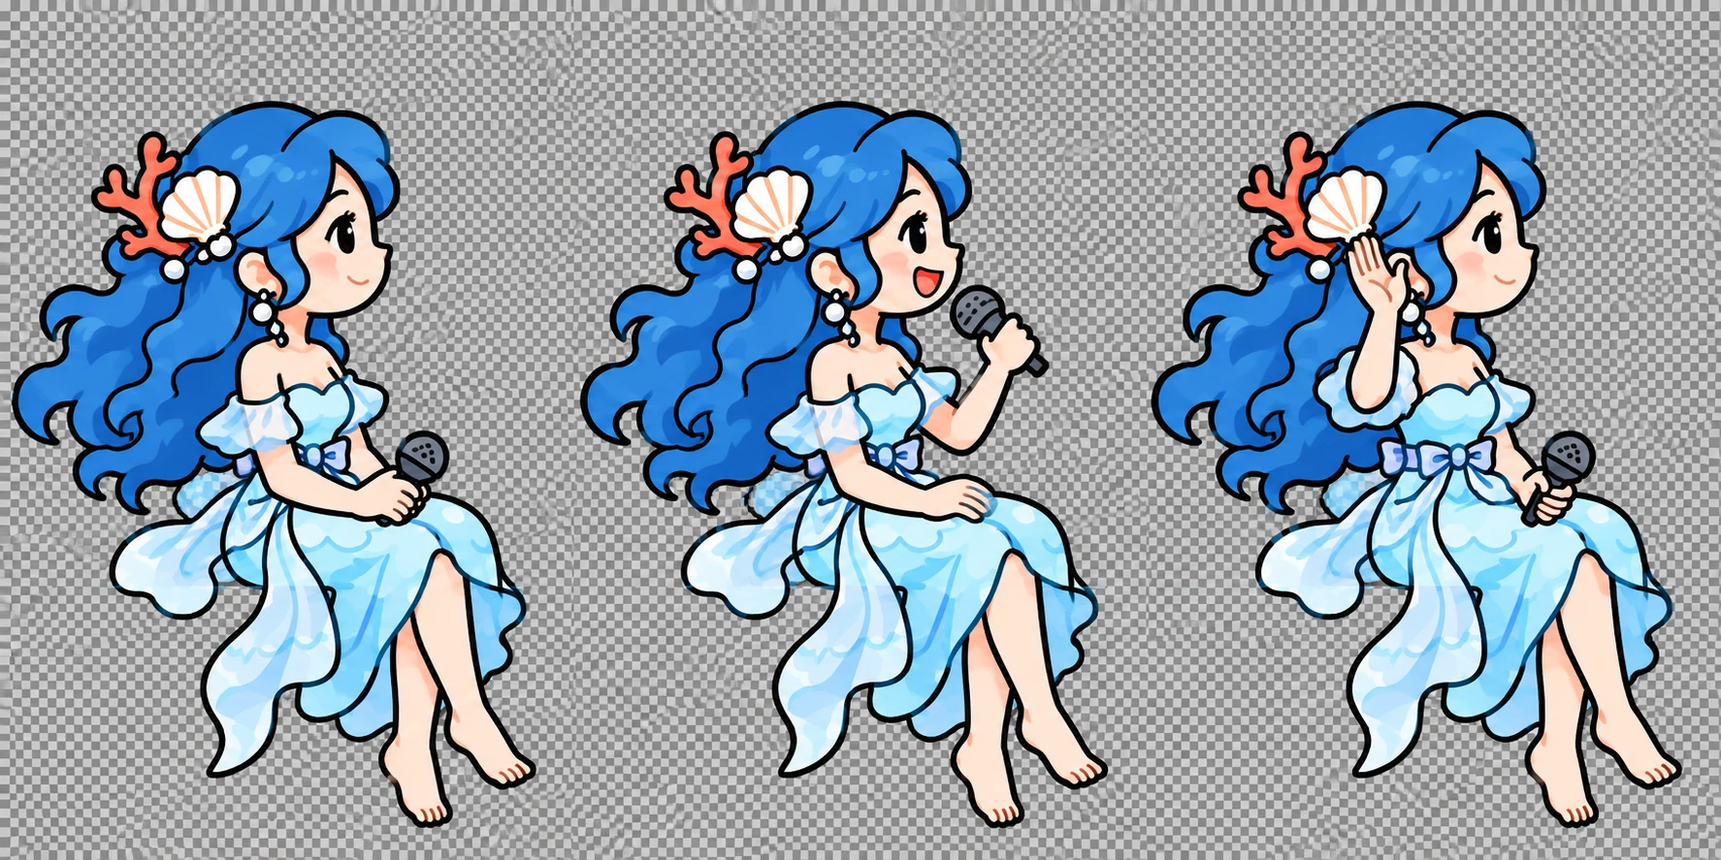
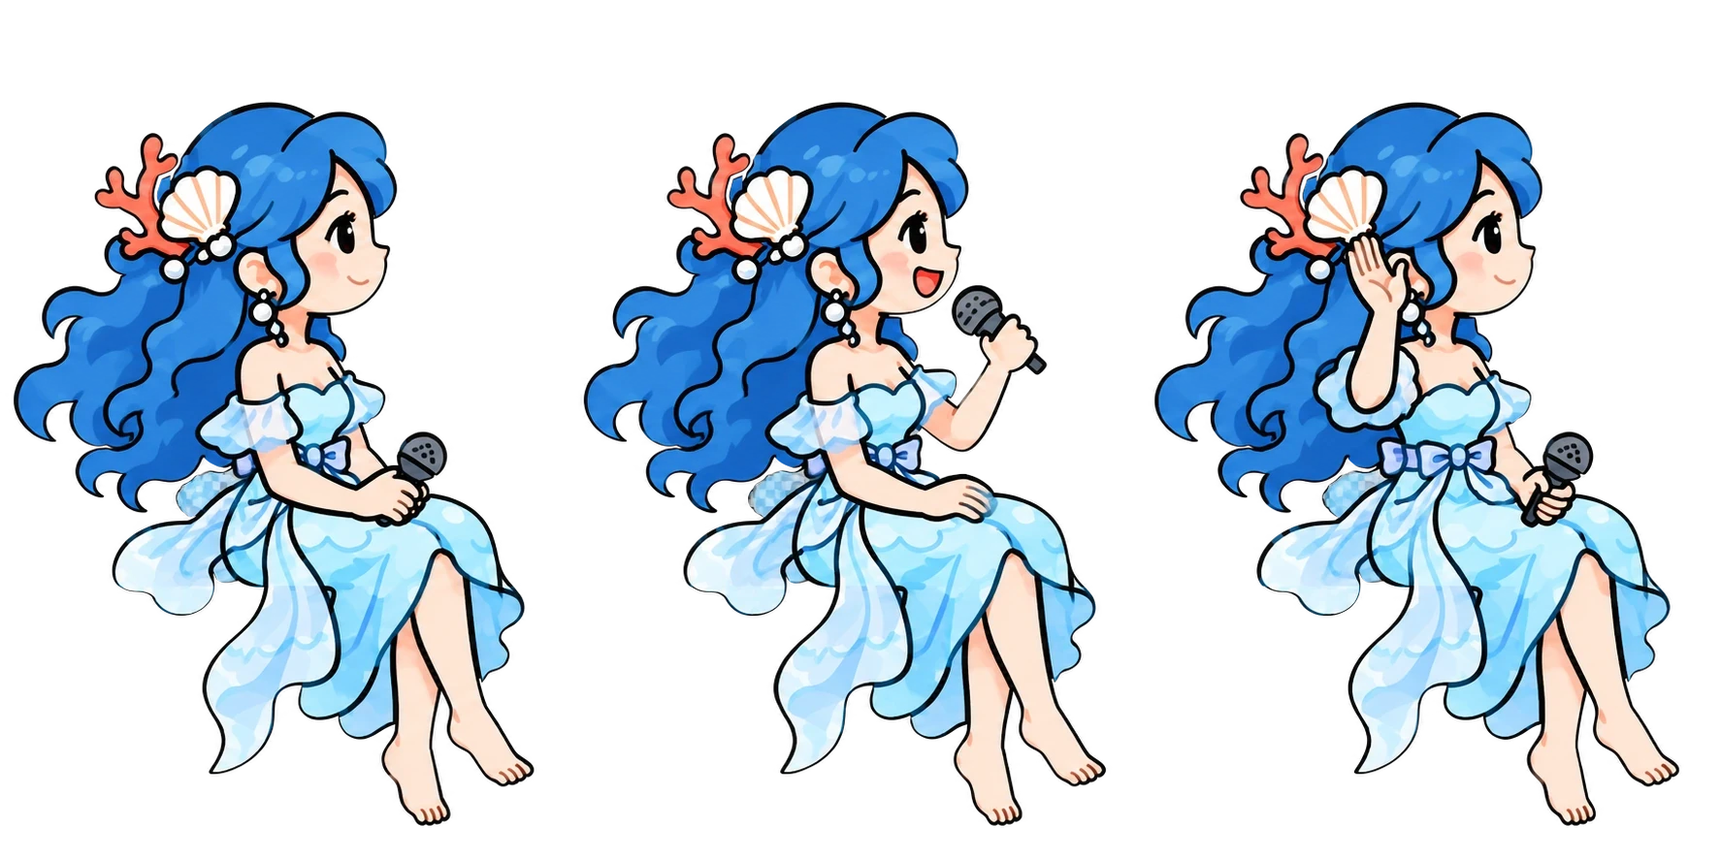
fix(visual): 把亮度遮罩烤进 alpha，分享卡字号改用实测卡宽
iPad Safari 上实测两个视觉缺陷，都是 CSS 特性在旧版 WebKit 上的回退行为。

## 棋盘格露出

海妖用 `-webkit-mask-image` + `mask-image` + `mask-mode: luminance` 做抠图。
旧版 WebKit 不支持 `mask-mode`，把 `-webkit-mask-image` 当 alpha 遮罩读，
而遮罩是全不透明的黑白图，alpha 处处 255，等于完全没遮——生成模型烤进去的
棋盘格背景直接显示出来。docs/assets-generation.md 当初就警告过这一条
（"Do not use the opaque mask as an alpha mask without luminance interpretation"）。

改为用 art-source/bake-alpha.py 在构建前把遮罩亮度写进图集的 alpha 通道，
CSS 里不再有任何遮罩。没有遮罩语义，也就没有各引擎解释不一致的问题。

透明区域近处保留外扩的精灵颜色、远处铺白，缩放采样不会把棋盘格灰拖进描边，
同时让远场压缩到接近于零：

  siren-atlas + siren-mask   802.9KB -> 410.6KB
  boats-atlas + boats-mask   548.5KB -> 206.5KB
  整包                        1991KB -> 1257KB

`compileSprites()` 相应简化为按列切分加 alpha 裁边，不再每次启动在主线程上
合成 591×887×3 ≈ 157 万像素。

顺带修掉两处同类隐患：`.water-shimmer` 的渐变遮罩缺 `-webkit-` 前缀，
在 Safari 上不生效；姿态切换里残留的 `mask-position` 已无对应遮罩，删除。

## 分享卡文字撑爆

分享卡的字号、间距全部裸用 `cqw`（`.share-count strong` 是 `27cqw`），
没有 clamp 兜底。容器查询一旦不生效，`cqw` 退回按视口计算，
`27cqw` 就变成屏幕宽度的 27%，整张卡的排版垮掉。
游戏主画面没炸只是因为那边写的是 `clamp(px, cqw, px)`。

改为由脚本实测卡片宽度写入 `--card-w`，样式用 `calc(var(--card-w) * 比例)`。
比例不变，但在任何引擎上都成立；卡片自身的宽度规则若将来也回退，
字号会跟着实测值走，不会二次失控。

WebKit 实测：卡宽 390px，大字 105.3px，正好是卡宽的 27%。

验证：selfcheck、176 项离线测试、tools/test-ui.py 两条路线全绿；
WebKit 与 Chromium 下人工比对首页与分享卡截图。

diff --git a/game/style.css b/game/style.css
@@ -63,6 +63,7 @@ button:focus-visible { outline: 3px solid #183f65; outline-offset: 5px; }
   opacity: .08;
   pointer-events: none;
   background: repeating-linear-gradient(174deg, transparent 0 63px, #fff 65px 66px, transparent 69px 130px);
+  -webkit-mask-image: linear-gradient(transparent, #000, transparent);
   mask-image: linear-gradient(transparent, #000, transparent);
   animation: water-drift 8s ease-in-out infinite;
 }
@@ -77,25 +78,21 @@ button:focus-visible { outline: 3px solid #183f65; outline-offset: 5px; }
   pointer-events: none;
   transition: transform .8s ease, opacity .5s ease;
 }
+/* The atlas carries its own alpha (art-source/bake-alpha.py). It used to be paired with a
+   separate luminance mask, but older WebKit ignores mask-mode and reads -webkit-mask-image as
+   an alpha mask; the mask was opaque everywhere, so nothing was masked and the generator's
+   checkerboard showed through on iPad Safari. No CSS mask here means no mask semantics to get
+   wrong. */
 .siren-art, .share-siren {
   background-image: url("./assets/characters/siren-atlas.webp");
   background-repeat: no-repeat;
   background-size: 300% 100%;
   background-position: 0 0;
-  -webkit-mask-image: url("./assets/characters/siren-mask.webp");
-  mask-image: url("./assets/characters/siren-mask.webp");
-  mask-mode: luminance;
-  -webkit-mask-size: 300% 100%;
-  mask-size: 300% 100%;
-  -webkit-mask-repeat: no-repeat;
-  mask-repeat: no-repeat;
-  -webkit-mask-position: 0 0;
-  mask-position: 0 0;
 }
 .siren-art { width: 100%; height: 100%; transform-origin: 50% 70%; animation: siren-breathe 3.2s ease-in-out infinite; }
-.siren[data-pose="sing"] .siren-art { background-position: 50% 0; -webkit-mask-position: 50% 0; mask-position: 50% 0; }
-.siren[data-pose="listen"] .siren-art { background-position: 100% 0; -webkit-mask-position: 100% 0; mask-position: 100% 0; }
-.siren.is-submerged { transform: translateY(30%); opacity: .48; mask-image: linear-gradient(#000 0 45%, transparent 66%); }
+.siren[data-pose="sing"] .siren-art { background-position: 50% 0; }
+.siren[data-pose="listen"] .siren-art { background-position: 100% 0; }
+.siren.is-submerged { transform: translateY(30%); opacity: .48; -webkit-mask-image: linear-gradient(#000 0 45%, transparent 66%); mask-image: linear-gradient(#000 0 45%, transparent 66%); }
 .siren-glow {
   position: absolute;
   left: 32%; top: 62%; width: 60%; height: 24%;
@@ -301,18 +298,18 @@ button:focus-visible { outline: 3px solid #183f65; outline-offset: 5px; }
 #app[data-phase="BOOT"] .home-view { visibility: hidden; }
 
 .share-view { position: absolute; inset: 0; z-index: 30; display: flex; flex-direction: column; align-items: center; justify-content: center; gap: 7px; overflow: hidden; padding: 16px; padding-top: max(16px, env(safe-area-inset-top, 0px)); padding-bottom: max(8px, env(safe-area-inset-bottom, 0px)); background: #f5f1e6; }
-.share-card { position: relative; isolation: isolate; container-type: inline-size; width: min(390px, calc((100dvh - 85px) * .6), calc(100vw - 32px)); aspect-ratio: 3 / 5; overflow: hidden; border: 3px solid var(--ink); border-radius: 24px; background: #c8effb; box-shadow: 5px 6px 0 #ccdcd9; text-align: center; }
+.share-card { --card-w: 390px; position: relative; isolation: isolate; container-type: inline-size; width: min(390px, calc((100dvh - 85px) * .6), calc(100vw - 32px)); aspect-ratio: 3 / 5; overflow: hidden; border: 3px solid var(--ink); border-radius: 24px; background: #c8effb; box-shadow: 5px 6px 0 #ccdcd9; text-align: center; }
 .share-sky { position: absolute; inset: 0; z-index: -1; background: #87dafd url("./assets/scenery/sea.webp") 14% bottom / auto 100% no-repeat; }
-.share-brand { margin: 7cqw 0 7cqw; font-size: 5.4cqw; font-weight: 700; letter-spacing: .055em; }
-.share-prefix { margin: 0; font-size: 5.4cqw; font-weight: 600; }
-.share-count { display: flex; justify-content: center; align-items: baseline; gap: 2cqw; margin: 0; font-weight: 700; line-height: 1.15; }
-.share-count strong { font-size: 27cqw; text-shadow: .65cqw .9cqw var(--cream); }
-.share-count span { font-size: 6.5cqw; }
-.share-line { position: relative; z-index: 3; margin: 3.5cqw 7cqw 0; font-size: 4.7cqw; font-weight: 600; line-height: 1.6; }
+.share-brand { margin: calc(var(--card-w) * 0.07) 0 calc(var(--card-w) * 0.07); font-size: calc(var(--card-w) * 0.054); font-weight: 700; letter-spacing: .055em; }
+.share-prefix { margin: 0; font-size: calc(var(--card-w) * 0.054); font-weight: 600; }
+.share-count { display: flex; justify-content: center; align-items: baseline; gap: calc(var(--card-w) * 0.02); margin: 0; font-weight: 700; line-height: 1.15; }
+.share-count strong { font-size: calc(var(--card-w) * 0.27); text-shadow: calc(var(--card-w) * 0.0065) calc(var(--card-w) * 0.009) var(--cream); }
+.share-count span { font-size: calc(var(--card-w) * 0.065); }
+.share-line { position: relative; z-index: 3; margin: calc(var(--card-w) * 0.035) calc(var(--card-w) * 0.07) 0; font-size: calc(var(--card-w) * 0.047); font-weight: 600; line-height: 1.6; }
 .share-sea { position: absolute; left: 0; right: 0; top: 46%; bottom: 0; background: transparent; }
 .share-sea canvas { position: absolute; inset: 0; width: 100%; height: 100%; }
-.share-siren { position: absolute; left: 4%; bottom: 8%; width: 58%; aspect-ratio: 2 / 3; background-position: 50% 0; -webkit-mask-position: 50% 0; mask-position: 50% 0; }
-.share-bottom { position: absolute; bottom: 3.5cqw; z-index: 4; width: 100%; margin: 0; padding: 2.5cqw 0; background: #fffaf0ed; font-size: 4cqw; font-weight: 600; }
+.share-siren { position: absolute; left: 4%; bottom: 8%; width: 58%; aspect-ratio: 2 / 3; background-position: 50% 0; }
+.share-bottom { position: absolute; bottom: calc(var(--card-w) * 0.035); z-index: 4; width: 100%; margin: 0; padding: calc(var(--card-w) * 0.025) 0; background: #fffaf0ed; font-size: calc(var(--card-w) * 0.04); font-weight: 600; }
 .share-controls { display: flex; align-items: center; justify-content: center; gap: 16px; font-size: 14px; }
 .share-controls span { font-weight: 700; }.share-controls button { min-height: 36px; padding: 7px 12px; font-size: 14px; }
 .sr-only { position: absolute; width: 1px; height: 1px; overflow: hidden; clip-path: inset(50%); white-space: nowrap; }

diff --git a/game/js/main.js b/game/js/main.js
@@ -433,7 +433,7 @@
     canvas.height = Math.round(size.height * size.ratio);
     if (ctx) ctx.setTransform(size.ratio, 0, 0, size.ratio, 0, 0);
     drawFleet(now());
-    if (ui.sharing) drawShareFleet();
+    if (ui.sharing) { sizeShareCard(); drawShareFleet(); }
   }
   function requestFrame() {
     if (frameId === null && !document.hidden) frameId = window.requestAnimationFrame(frame);
@@ -449,7 +449,18 @@
     if (!ui.sharing && (isPlaying() || state.phase === 'FINALE' || (ships.size && !reduced.matches))) requestFrame();
   }
 
+  // The card used to size its type in cqw. Where container queries do not apply, cqw falls back
+  // to the viewport and the boat count rendered at 27% of the screen width (seen on iPad).
+  // Measuring the card and publishing the width works on every engine, and self-corrects if the
+  // card's own width rule ever falls back too.
+  function sizeShareCard() {
+    var card = el['share-card'];
+    if (!card) return;
+    var width = card.getBoundingClientRect().width;
+    if (width > 0) card.style.setProperty('--card-w', width + 'px');
+  }
   function drawShareFleet() {
+    sizeShareCard();
     var shareCanvas = el['share-fleet'];
     var rect = shareCanvas.getBoundingClientRect();
     if (!rect.width || !rect.height) return;
@@ -597,8 +608,11 @@
       image.src = path;
     });
   }
-  function compileSprites(atlas, mask) {
-    if (!atlas || !mask) return;
+  // The atlas carries real alpha (baked by art-source/bake-alpha.py), so this only cuts the
+  // three columns and trims each to its drawn pixels. It used to composite a separate luminance
+  // mask over 1.57M pixels on the main thread at every startup.
+  function compileSprites(atlas) {
+    if (!atlas) return;
     for (var index = 0; index < 3; index += 1) {
       var width = Math.ceil(atlas.naturalWidth / 3);
       var height = atlas.naturalHeight;
@@ -606,22 +620,17 @@
       sprite.width = width; sprite.height = height;
       var context = sprite.getContext('2d', { willReadFrequently: true });
       context.drawImage(atlas, index * atlas.naturalWidth / 3, 0, atlas.naturalWidth / 3, height, 0, 0, width, height);
-      var pixels = context.getImageData(0, 0, width, height);
-      context.clearRect(0, 0, width, height);
-      context.drawImage(mask, index * mask.naturalWidth / 3, 0, mask.naturalWidth / 3, mask.naturalHeight, 0, 0, width, height);
       var coverage = context.getImageData(0, 0, width, height).data;
       var left = width, top = height, right = 0, bottom = 0;
-      for (var offset = 0; offset < coverage.length; offset += 4) {
-        // The separately generated luminance mask is the alpha source, including all drawn edges.
-        var alpha = Math.round(coverage[offset] * 0.2126 + coverage[offset + 1] * 0.7152 + coverage[offset + 2] * 0.0722);
-        pixels.data[offset + 3] = Math.round(pixels.data[offset + 3] * alpha / 255);
-        if (alpha > 24) {
-          var x = (offset / 4) % width, y = Math.floor(offset / 4 / width);
-          left = Math.min(left, x); right = Math.max(right, x);
-          top = Math.min(top, y); bottom = Math.max(bottom, y);
-        }
+      for (var offset = 3; offset < coverage.length; offset += 4) {
+        if (coverage[offset] <= 24) continue;
+        var pixel = (offset - 3) / 4;
+        var x = pixel % width, y = Math.floor(pixel / width);
+        if (x < left) left = x;
+        if (x > right) right = x;
+        if (y < top) top = y;
+        if (y > bottom) bottom = y;
       }
-      context.putImageData(pixels, 0, 0);
       if (right <= left || bottom <= top) continue;
       left = Math.max(0, left - 4); top = Math.max(0, top - 4);
       right = Math.min(width, right + 5); bottom = Math.min(height, bottom + 5);
@@ -638,12 +647,10 @@
   api.init().then(function () { renderState(); });
   Promise.all([
     loadImage('./assets/boats/boats-atlas.webp'),
-    loadImage('./assets/boats/boats-mask.webp'),
     loadImage('./assets/scenery/sea.webp'),
-    loadImage('./assets/characters/siren-atlas.webp'),
-    loadImage('./assets/characters/siren-mask.webp')
+    loadImage('./assets/characters/siren-atlas.webp')
   ]).then(function (images) {
-    try { compileSprites(images[0], images[1]); } catch (_) { sprites = []; }
+    try { compileSprites(images[0]); } catch (_) { sprites = []; }
     drawFleet(now());
     if (ui.sharing) drawShareFleet();
   });

diff --git a/art-source/bake-alpha.py b/art-source/bake-alpha.py
@@ -1,0 +1,66 @@
+"""Bakes each model-generated luminance mask into its atlas as a real alpha channel.
+
+The atlases came back from the generator with an opaque checkerboard instead of transparency,
+so the runtime paired every atlas with a separate black/white mask and asked CSS to interpret it
+with `mask-mode: luminance`. Older WebKit does not honour that: it takes `-webkit-mask-image`
+with alpha semantics, the mask is opaque everywhere, so nothing is masked and the checkerboard
+shows through. Observed on iPad Safari at sirenslittletrick.pages.dev.
+
+Baking applies the same Rec.709 luminance-to-alpha maths the canvas path already ran at startup,
+just ahead of time. It removes the CSS mask entirely, drops both mask files from the bundle and
+skips ~1.57M pixels of main-thread compositing on every load.
+
+Transparent areas keep a bled copy of the sprite colour near the edge and flat white further out,
+so filtering never pulls checkerboard grey into an antialiased edge and the far field compresses
+to almost nothing.
+
+Run after regenerating any atlas:  python art-source/bake-alpha.py
+"""
+from PIL import Image, ImageFilter
+from pathlib import Path
+import numpy as np
+
+ROOT = Path(__file__).resolve().parent.parent
+QUALITY = 90
+PAIRS = [
+    ("game/assets/characters/siren-atlas.webp", "game/assets/characters/siren-mask.webp"),
+    ("game/assets/boats/boats-atlas.webp", "game/assets/boats/boats-mask.webp"),
+]
+
+
+def bake(atlas_path, mask_path):
+    atlas = Image.open(ROOT / atlas_path).convert("RGB")
+    alpha = Image.open(ROOT / mask_path).convert("L")
+    if atlas.size != alpha.size:
+        raise SystemExit(f"{atlas_path}: atlas {atlas.size} != mask {alpha.size}")
+
+    a = np.array(alpha)
+    opaque = a > 8
+    bled = atlas.copy()
+    for _ in range(6):
+        grown = np.array(bled.filter(ImageFilter.MaxFilter(5)))
+        arr = np.array(bled)
+        arr[~opaque] = grown[~opaque]
+        bled = Image.fromarray(arr, "RGB")
+        opaque = opaque | (np.array(bled).sum(axis=2) > 0)
+
+    arr = np.array(bled)
+    near = np.array(Image.fromarray((a > 8).astype(np.uint8) * 255).filter(ImageFilter.MaxFilter(21)))
+    arr[(near < 128) & (a < 2)] = 255
+    return Image.fromarray(np.dstack([arr, a]), "RGBA")
+
+
+total_before = total_after = 0
+for atlas_path, mask_path in PAIRS:
+    atlas_file, mask_file = ROOT / atlas_path, ROOT / mask_path
+    before = atlas_file.stat().st_size + mask_file.stat().st_size
+    baked = bake(atlas_path, mask_path)
+    baked.save(atlas_file, "WEBP", quality=QUALITY, method=6)
+    mask_file.unlink()
+    after = atlas_file.stat().st_size
+    total_before += before
+    total_after += after
+    print(f"{atlas_path:46s} {before/1024:7.1f}KB -> {after/1024:7.1f}KB  (遮罩已删除)")
+
+print(f"{'合计':46s} {total_before/1024:7.1f}KB -> {total_after/1024:7.1f}KB  "
+      f"省 {(total_before-total_after)/1024:.1f}KB")

diff --git a/docs/素材清单.md b/docs/素材清单.md
@@ -4,7 +4,9 @@
 
 ## 当前完成情况
 
-核心图像已经生成并落盘：**海景一张、海妖三个姿态、船只三种配色，以及两张配套遮罩**。字体已本地打包。图像生成完成不等于前端交付完成：遮罩边缘、角色落点、不同屏幕尺寸和全状态切换须在运行页面中验收。
+核心图像已经生成并落盘：**海景一张、海妖三个姿态、船只三种配色**。字体已本地打包。
+
+2026-09-21：两张模型生成的亮度遮罩已由 `art-source/bake-alpha.py` 烤进各自图集的 alpha 通道，遮罩文件从包内删除。原因是 iPad Safari 实测露出棋盘格——旧版 WebKit 不认 `mask-mode: luminance`，按 alpha 语义读 `-webkit-mask-image`，而遮罩处处不透明，等于没遮。烤进去之后不存在遮罩语义，任何浏览器结果一致；顺带省 734KB 并去掉启动时 157 万像素的主线程合成。
 
 本清单只列实际文件。海草、海鸥、远景灯塔等目前包含在海景底图中，没有单独可移动的图层；不会将它们宣称为已完成的独立动画素材。
 
@@ -14,21 +16,19 @@
 | --- | --- | --- | --- | --- |
 | REF | 用户原始参考图 | `art-source/user-reference.png` | 1672 × 941 | 唯一视觉基准；不进发布包 |
 | BG | 清洁海景底图 | `game/assets/scenery/sea.webp` | 1672 × 941；80,378 B | 已生成；移除原图人物、船、计数和控制条，保留天空、海面、灯塔、港口、左右礁石、海草、海鸥 |
-| C | 海妖图集 | `game/assets/characters/siren-atlas.webp` | 1774 × 887；386,916 B | 已生成；左至右：待机／唱歌／倾听，三等宽列 |
-| CM | 海妖亮度遮罩 | `game/assets/characters/siren-mask.webp` | 1774 × 887；435,304 B | 已生成；须与 C 同步使用，白色可见、黑色隐藏 |
-| B | 船只图集 | `game/assets/boats/boats-atlas.webp` | 1774 × 887；248,314 B | 已生成；左至右：珊瑚红／黄色／薄荷绿，均为正面船只 |
-| BM | 船只亮度遮罩 | `game/assets/boats/boats-mask.webp` | 1774 × 887；313,356 B | 已生成；须与 B 同步使用 |
+| C | 海妖图集 | `game/assets/characters/siren-atlas.webp` | 1774 × 887；420,404 B | 已生成并烤入 alpha；左至右：待机／唱歌／倾听，三等宽列 |
+| B | 船只图集 | `game/assets/boats/boats-atlas.webp` | 1774 × 887；211,450 B | 已生成并烤入 alpha；左至右：珊瑚红／黄色／薄荷绿，均为正面船只 |
 | F | 中文圆体子集 | `game/assets/fonts/siren-round.woff2` | 初版 207,904 B；以最终构建为准 | 已制作；从官方 OFL 授权寒蝉全圆体生成项目子集，衍生命名 Siren Round UI；用于标题、按钮和界面文字 |
 | FL | 字体授权 | `game/assets/fonts/license.json` | 完整版权与 OFL 文本 | 已保存；随离线包分发；原字体和授权原文在 `art-source/fonts/` |
 
-五份图像合计 **1,464,268 B（约 1.40 MiB）**。加上字体约 1.60 MiB；脚本和其他文件需一起通过项目 2 MiB 校验。最终发布包大小见构建结果。
+三份图像合计 **711,832 B（约 0.68 MiB）**。加上字体约 0.87 MiB；完整包实测 1257KB。最终发布包大小见构建结果。
 
 ### 图集接入要点
 
 - 每张图集分三列；单格宽为 `1774 / 3`，高为 887，比例 **2:3**。保持比例，不能把人物拉宽。
-- CSS 使用 `background-size: 300% 100%`，位置为 `0% / 50% / 100%`；遮罩同步设置相同尺寸、位置，`mask-mode: luminance`。
-- **这批图集不是真透明 PNG。** 生成模型两次透明请求返回 RGB 棋盘格，另用模型生成黑白遮罩完成分离；不能直接展示未遮罩的原图。
-- Canvas 船队与分享画面使用同一张模型生成遮罩的亮度作为覆盖率。遮罩是模型估计的轮廓，最终须检查是否露出棋盘格、切掉细线、出现浅边。
+- CSS 使用 `background-size: 300% 100%`，位置为 `0% / 50% / 100%`。**不要再加 CSS 遮罩**，alpha 已在图里。
+- **生成模型两次透明请求都返回 RGB 棋盘格**，当时改用模型另出的黑白遮罩分离。现在遮罩已烤进 alpha（`art-source/bake-alpha.py`），运行时不再需要遮罩。重新生成图集后必须重跑该脚本。
+- 轮廓来自模型估计的遮罩，不是解析级抠图，仍须检查有没有切掉细线或出现浅边。透明区域近处保留了外扩的精灵颜色、远处铺白，缩放时不会把棋盘格灰拖进描边。
 - 帧与帧只代表姿态切换，不是逐帧骨骼动画。漂浮、呼吸、下潜和发光由前端实现。
 
 ## 由前端实时绘制／排版
@@ -74,6 +74,6 @@
 - 海景原始输出：`art-source/sea-clean.png`。
 - 海妖与船的原始输出：`art-source/generated/`。
 - 图片使用 **内置 imagegen** 生成，未使用 CLI / API 替代路径。
-- 角色、船及遮罩的完整提示词、生成来源与技术限制见 `docs/assets-generation.md`。
+- 角色、船及遮罩的完整提示词、生成来源与技术限制见 `docs/assets-generation.md`。遮罩原图保留在 `art-source/generated/`，不进包。
 - 原图压缩脚本：`art-source/package-sprites.py`；字体子集脚本：`tools/package-font.py`。原始图与字体不进入游戏包。
 - 字体官方来源：https://github.com/Warren2060/ChillRound ，OFL-1.1；文字子集不修改字形轮廓，衍生名称已避开原字体保留名称。

diff --git a/docs/前端交付说明.md b/docs/前端交付说明.md
@@ -31,7 +31,7 @@
 | −3 | `.sea-scene` | 海景底图。横屏 `100% 100%` 铺满；竖屏 `auto 87%` 贴底，上方留出纯色天空放标题 |
 | −2 | `.water-shimmer` | 纯 CSS 波光，渐变遮罩 + 缓慢平移 |
 | 0 | `#fleet-canvas` | 船队。整舞台尺寸，`devicePixelRatio` 上限 2 |
-| 2 | `.siren` | 海妖。图集 + 遮罩，三姿态靠 `background-position` 切换 |
+| 2 | `.siren` | 海妖。图集自带 alpha，三姿态靠 `background-position` 切换 |
 | 6–18 | 各视图、音块条、船数、提示 | 普通 DOM |
 | 30 | `.share-view` | 分享卡，展开时 `.stage` 整体 `visibility: hidden` |
 
@@ -58,10 +58,13 @@ FLEET.portrait   // 帆船带 y 0.375 起，停泊区 y 0.452 起，15 列
 
 ## 4. 素材接入方式
 
-两张图集都**不是真透明 PNG**，必须与各自的遮罩配对使用（原因见 `docs/assets-generation.md`）：
+两张图集生成时都只拿到 RGB 棋盘格，没有真透明。曾经的做法是配一张模型生成的黑白遮罩，由 CSS `mask-mode: luminance` 和 Canvas 分别解释。**这个做法在 iPad Safari 上是坏的**：旧版 WebKit 不支持 `mask-mode`，把 `-webkit-mask-image` 当 alpha 遮罩读，而遮罩处处不透明，等于没遮，棋盘格直接露出来。
 
-- **海妖（DOM）**：`.siren-art` 同时设 `background-image` 与 `mask-image`，`background-size` / `mask-size` 都是 `300% 100%`，位置 `0% / 50% / 100%` 对应待机 / 唱歌 / 倾听，`mask-mode: luminance`。
-- **船（Canvas）**：`compileSprites()` 在启动时把图集按三列切开，逐像素取遮罩的**亮度**写进 alpha 通道，再按有效像素裁边，得到三张离屏 canvas 精灵。之后每帧只是 `drawImage`，不再做像素运算。
+现在遮罩由 `art-source/bake-alpha.py` 烤进图集的 alpha 通道，包内不再有遮罩文件：
+
+- **海妖（DOM）**：`.siren-art` 只设 `background-image`，`background-size: 300% 100%`，位置 `0% / 50% / 100%` 对应待机 / 唱歌 / 倾听。**没有任何 CSS 遮罩**，也就没有遮罩语义可以踩坑。
+- **船（Canvas）**：`compileSprites()` 把图集按三列切开、按 alpha 裁边，得到三张离屏精灵。之后每帧只是 `drawImage`。
+- **重新生成任何图集后必须重跑 `bake-alpha.py`**，否则运行时拿到的是没有 alpha 的原图。
 - **降级**：任何一张图加载失败，`drawBoat()` 退回纯路径绘制的简笔船，游戏仍然可玩可结算。海妖图失败则只剩发光圈，不影响状态机。
 
 字体 `siren-round.woff2` 由 `@font-face` 引入；`license.json` 按 OFL 要求随包分发，不被任何页面引用（打包校验已把授权文件排除在"冗余资源"提示之外）。
